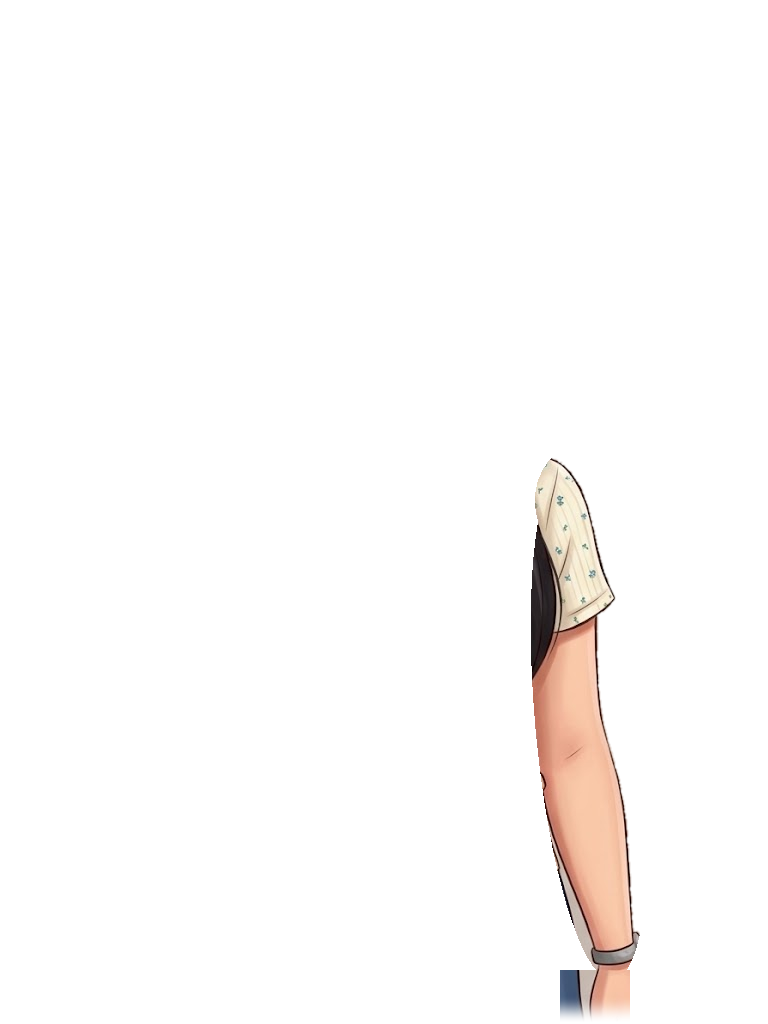
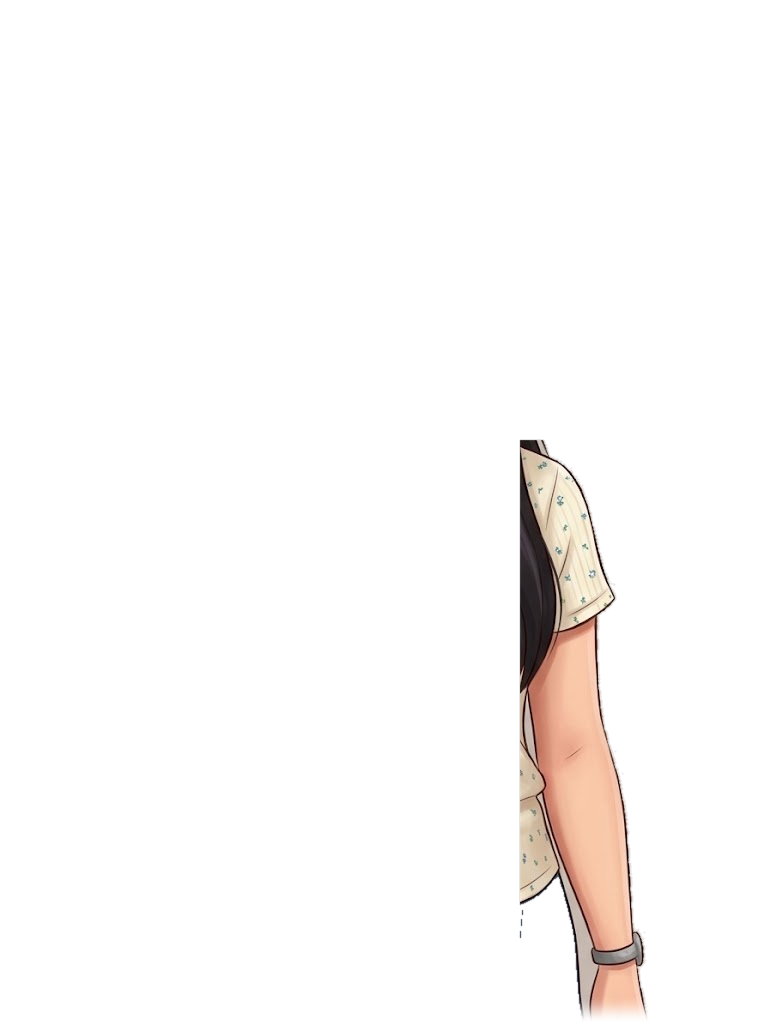
update

Changed region(s): [[0.6562, 0.4062, 0.75, 0.9062], [0.7188, 0.9062, 0.7812, 1.0], [0.8125, 0.9062, 0.8438, 1.0]]

diff --git a/apps/web/src/components/avatar/AvatarCanvas2D.tsx b/apps/web/src/components/avatar/AvatarCanvas2D.tsx
@@ -29,8 +29,6 @@ export const AvatarCanvas2D: React.FC<AvatarCanvas2DProps> = ({
 }) => {
   const containerRef = useRef<HTMLDivElement>(null);
   const torsoContainerRef = useRef<HTMLDivElement>(null);
-  const leftArmRef = useRef<HTMLDivElement>(null);
-  const rightArmRef = useRef<HTMLDivElement>(null);
   const mouthOverlayRef = useRef<HTMLDivElement>(null);
   const upperTeethRef = useRef<HTMLDivElement>(null);
   const tongueRef = useRef<HTMLDivElement>(null);
@@ -178,7 +176,6 @@ export const AvatarCanvas2D: React.FC<AvatarCanvas2DProps> = ({
     let currDepthZ = 0;
     let currSlumpY = 0;
     let currShiftX = 0;
-    let currArmDamping = 1.0;
 
     const loop = (now: number) => {
       if (document.visibilityState !== "hidden") {
@@ -205,7 +202,6 @@ export const AvatarCanvas2D: React.FC<AvatarCanvas2DProps> = ({
         let targetSlumpY = 0;
         let targetShiftX = 0;
         let targetSpeedMult = 1.0;
-        let targetArmDamping = 1.0;
 
         if (curEmotion === "sad") {
           // Sedih / Empati: Kepala menunduk lembut, napas tenang, tubuh tetap tegak stabil
@@ -217,7 +213,6 @@ export const AvatarCanvas2D: React.FC<AvatarCanvas2DProps> = ({
           targetSlumpY = 3.0 + sigh;
           targetShiftX = 0;
           targetSpeedMult = 0.9;
-          targetArmDamping = 0.6;
         } else if (curEmotion === "happy") {
           // Ceria / Gembira: Tubuh tegap maju ke depan lembut
           const bounce = Math.sin(tSec * 2.5) * 0.8;
@@ -228,7 +223,6 @@ export const AvatarCanvas2D: React.FC<AvatarCanvas2DProps> = ({
           targetSlumpY = -1.5 + bounce;
           targetShiftX = 0;
           targetSpeedMult = 1.15;
-          targetArmDamping = 1.2;
         } else if (curEmotion === "thinking") {
           // Berpikir: Dagu terangkat sedikit, tetap tegak tanpa miring condong
           targetPitch = -1.5;
@@ -238,7 +232,6 @@ export const AvatarCanvas2D: React.FC<AvatarCanvas2DProps> = ({
           targetSlumpY = 0;
           targetShiftX = 0;
           targetSpeedMult = 0.95;
-          targetArmDamping = 0.85;
         } else if (curEmotion === "surprised") {
           // Kaget / Terkesan: Kepala sedikit terkesima
           targetPitch = -2.2;
@@ -248,7 +241,6 @@ export const AvatarCanvas2D: React.FC<AvatarCanvas2DProps> = ({
           targetSlumpY = -1.5;
           targetShiftX = 0;
           targetSpeedMult = 1.25;
-          targetArmDamping = 1.2;
         } else if (curEmotion === "shy") {
           // Tersipu / Malu Manis: Sedikit menunduk anggun
           targetPitch = 1.8;
@@ -258,7 +250,6 @@ export const AvatarCanvas2D: React.FC<AvatarCanvas2DProps> = ({
           targetSlumpY = 1.2;
           targetShiftX = 0;
           targetSpeedMult = 1.0;
-          targetArmDamping = 0.7;
         }
 
         // Lerp halus 60 FPS untuk seluruh parameter rotasi & posisi
@@ -269,7 +260,6 @@ export const AvatarCanvas2D: React.FC<AvatarCanvas2DProps> = ({
         currDepthZ += (targetDepthZ - currDepthZ) * lerpFactor;
         currSlumpY += (targetSlumpY - currSlumpY) * lerpFactor;
         currShiftX += (targetShiftX - currShiftX) * lerpFactor;
-        currArmDamping += (targetArmDamping - currArmDamping) * lerpFactor;
 
         // ⚡ Aksentuasi Intonasi Vokal (Emphasis Micro-Nod saat kata ditekankan)
         const intonationAccent = curIsSpeaking ? curIntonation * 2.2 : 0;
@@ -299,24 +289,7 @@ export const AvatarCanvas2D: React.FC<AvatarCanvas2DProps> = ({
             ? Math.min(1, curMouthOpen * 2.2 * (0.8 + speechCadence * 0.25))
             : 0;
 
-        // Kinematika Lengan Kiri & Kanan (Mengikuti Damping & Aksentuasi Intonasi)
-        const armBreathL = -breath * 0.6 * currArmDamping;
-        const armBreathR = breath * 0.6 * currArmDamping;
-        const speechArmL = curIsSpeaking
-          ? (Math.sin(tSec * 2.4) * (curRig.armMaxRot * 0.6) + dynamicMouthAmount * 1.0 + curIntonation * 1.5) * currArmDamping
-          : 0;
-        const speechArmR = curIsSpeaking
-          ? (-Math.cos(tSec * 2.2 + 0.4) * (curRig.armMaxRot * 0.55) - dynamicMouthAmount * 0.9 - curIntonation * 1.4) * currArmDamping
-          : 0;
-        const armGazeOffset = (gazeTarget.x - 0.5) * 0.8;
-
-        // Gestur lengan thinking: lengan kanan terangkat sedikit ke arah dada
-        const thinkingArmBonus = curEmotion === "thinking" ? 3.0 : 0;
-
-        const armAngleLeft = Math.max(-5, Math.min(5, armBreathL + speechArmL + armGazeOffset));
-        const armAngleRight = Math.max(-5, Math.min(5, armBreathR + speechArmR + armGazeOffset + thinkingArmBonus));
-
-        // 1. Update Torso Container Transform (2.5D Volumetric GPU Layer)
+        // 1. Update Torso Container Transform (2.5D Volumetric GPU Layer & Solid Anatomical Posture)
         if (torsoContainerRef.current) {
           torsoContainerRef.current.style.transform = `
             perspective(900px)
@@ -327,14 +300,6 @@ export const AvatarCanvas2D: React.FC<AvatarCanvas2DProps> = ({
             scaleY(${breathScaleY.toFixed(3)})
             scaleX(${breathScaleX.toFixed(3)})
           `;
-        }
-
-        // 2. Update Lengan Kiri & Kanan
-        if (leftArmRef.current) {
-          leftArmRef.current.style.transform = `rotate(${armAngleLeft.toFixed(2)}deg)`;
-        }
-        if (rightArmRef.current) {
-          rightArmRef.current.style.transform = `rotate(${armAngleRight.toFixed(2)}deg)`;
         }
 
         // 3. Update Lapisan Mulut (Lip-Sync Halus & Alami)
@@ -552,41 +517,6 @@ export const AvatarCanvas2D: React.FC<AvatarCanvas2DProps> = ({
             mouthScale={rigConfig.mouthScale}
           />
 
-          {/* ============================================================= */}
-          {/* LENGAN KIRI BERGERAK INDEPENDEN (Poros di Sendi Bahu Kiri) */}
-          {/* ============================================================= */}
-          <div
-            ref={leftArmRef}
-            className="absolute inset-0 w-full h-full pointer-events-none z-20 will-change-transform"
-            style={{
-              transformOrigin: `${rigConfig.armPivotLX}% ${rigConfig.armPivotLY}%`,
-            }}
-          >
-            <img
-              src="/celyn_arm_l_clean.png"
-              alt="Celyn Left Arm"
-              className="w-full h-full object-contain select-none pointer-events-none"
-              draggable={false}
-            />
-          </div>
-
-          {/* ============================================================= */}
-          {/* LENGAN KANAN BERGERAK INDEPENDEN (Poros di Sendi Bahu Kanan) */}
-          {/* ============================================================= */}
-          <div
-            ref={rightArmRef}
-            className="absolute inset-0 w-full h-full pointer-events-none z-20 will-change-transform"
-            style={{
-              transformOrigin: `${rigConfig.armPivotRX}% ${rigConfig.armPivotRY}%`,
-            }}
-          >
-            <img
-              src="/celyn_arm_r_clean.png"
-              alt="Celyn Right Arm"
-              className="w-full h-full object-contain select-none pointer-events-none"
-              draggable={false}
-            />
-          </div>
 
           {/* ============================================================= */}
           {/* LAPISAN MULUT LIP-SYNC HALUS (Presisi Terkunci pada Bibir) */}
